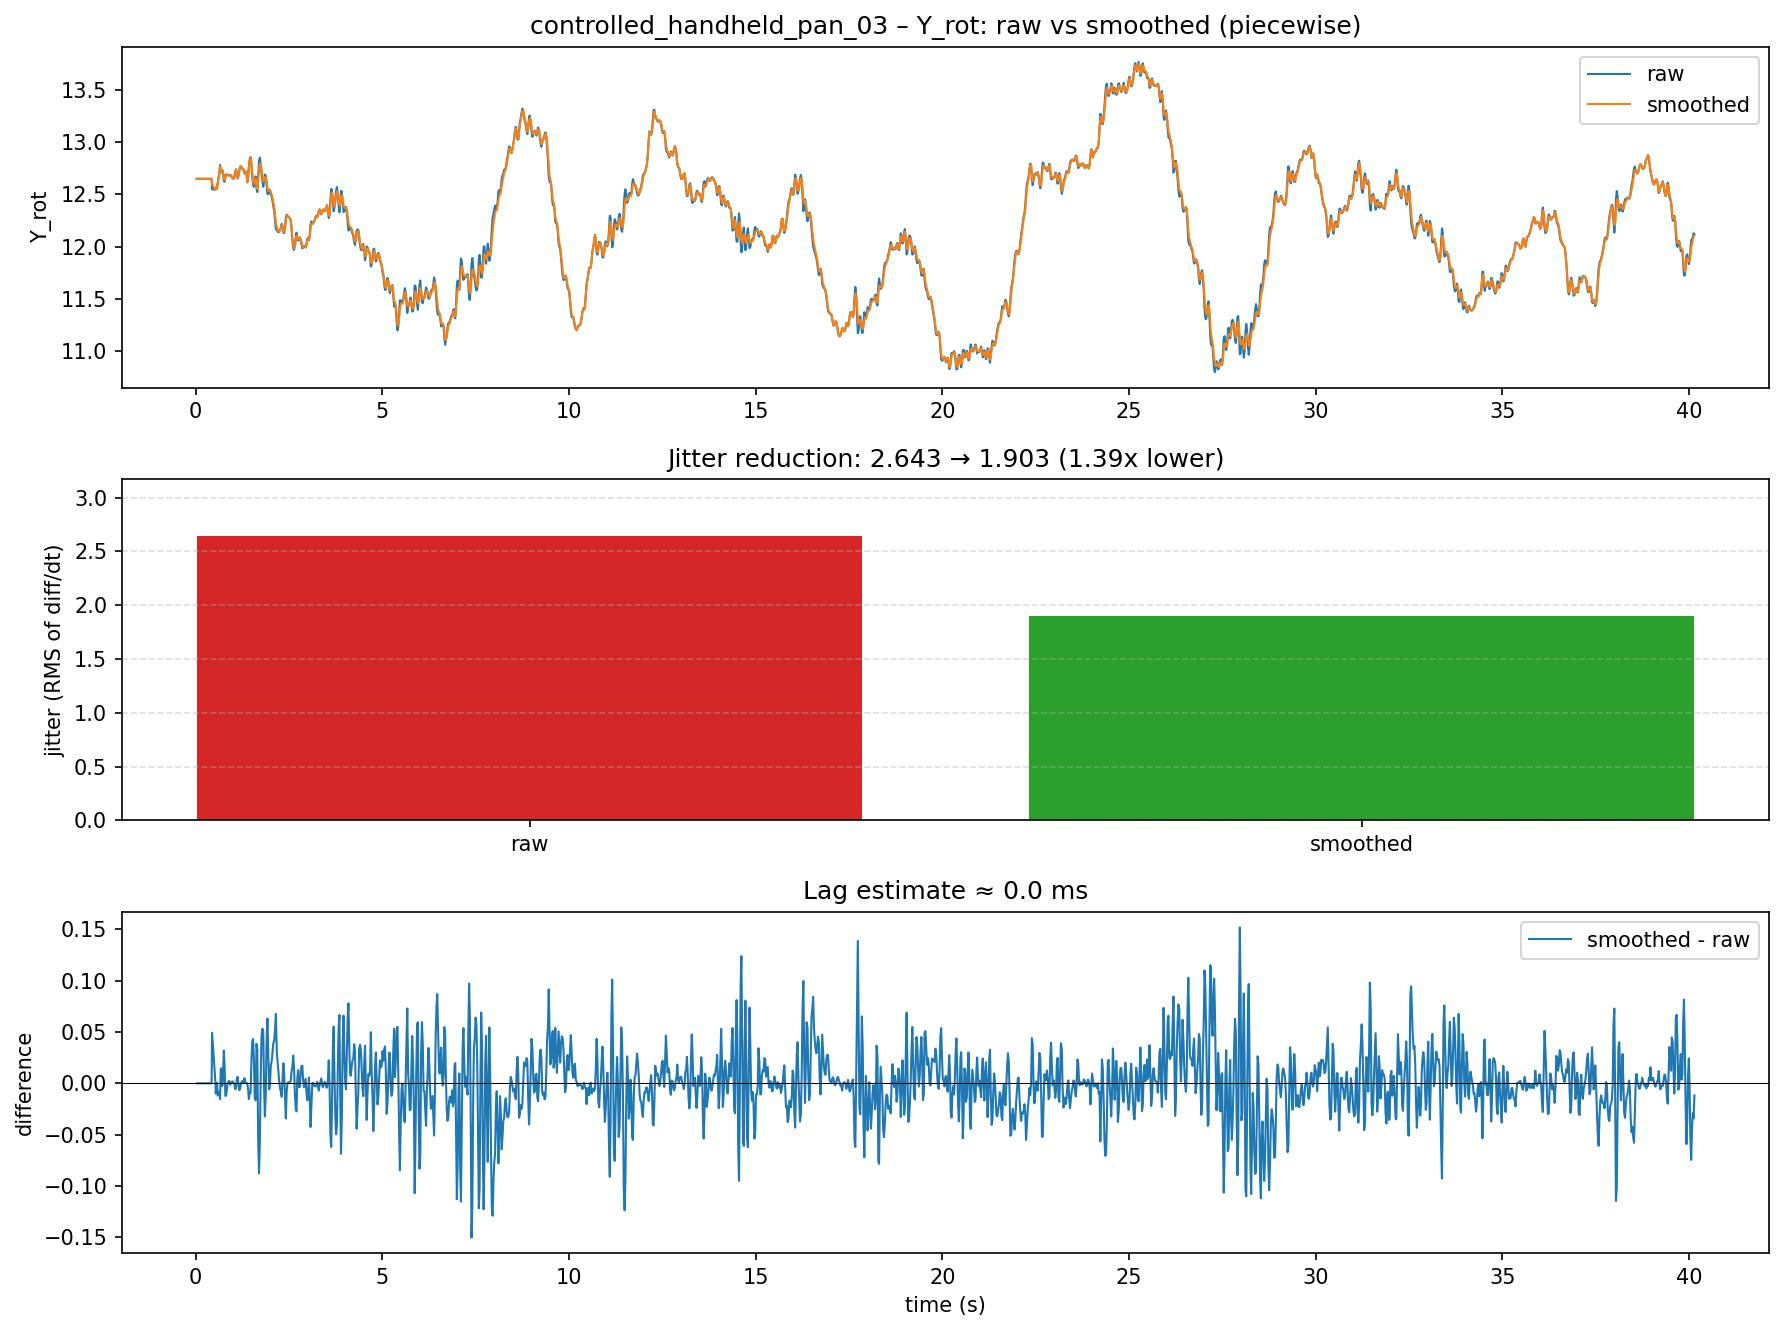
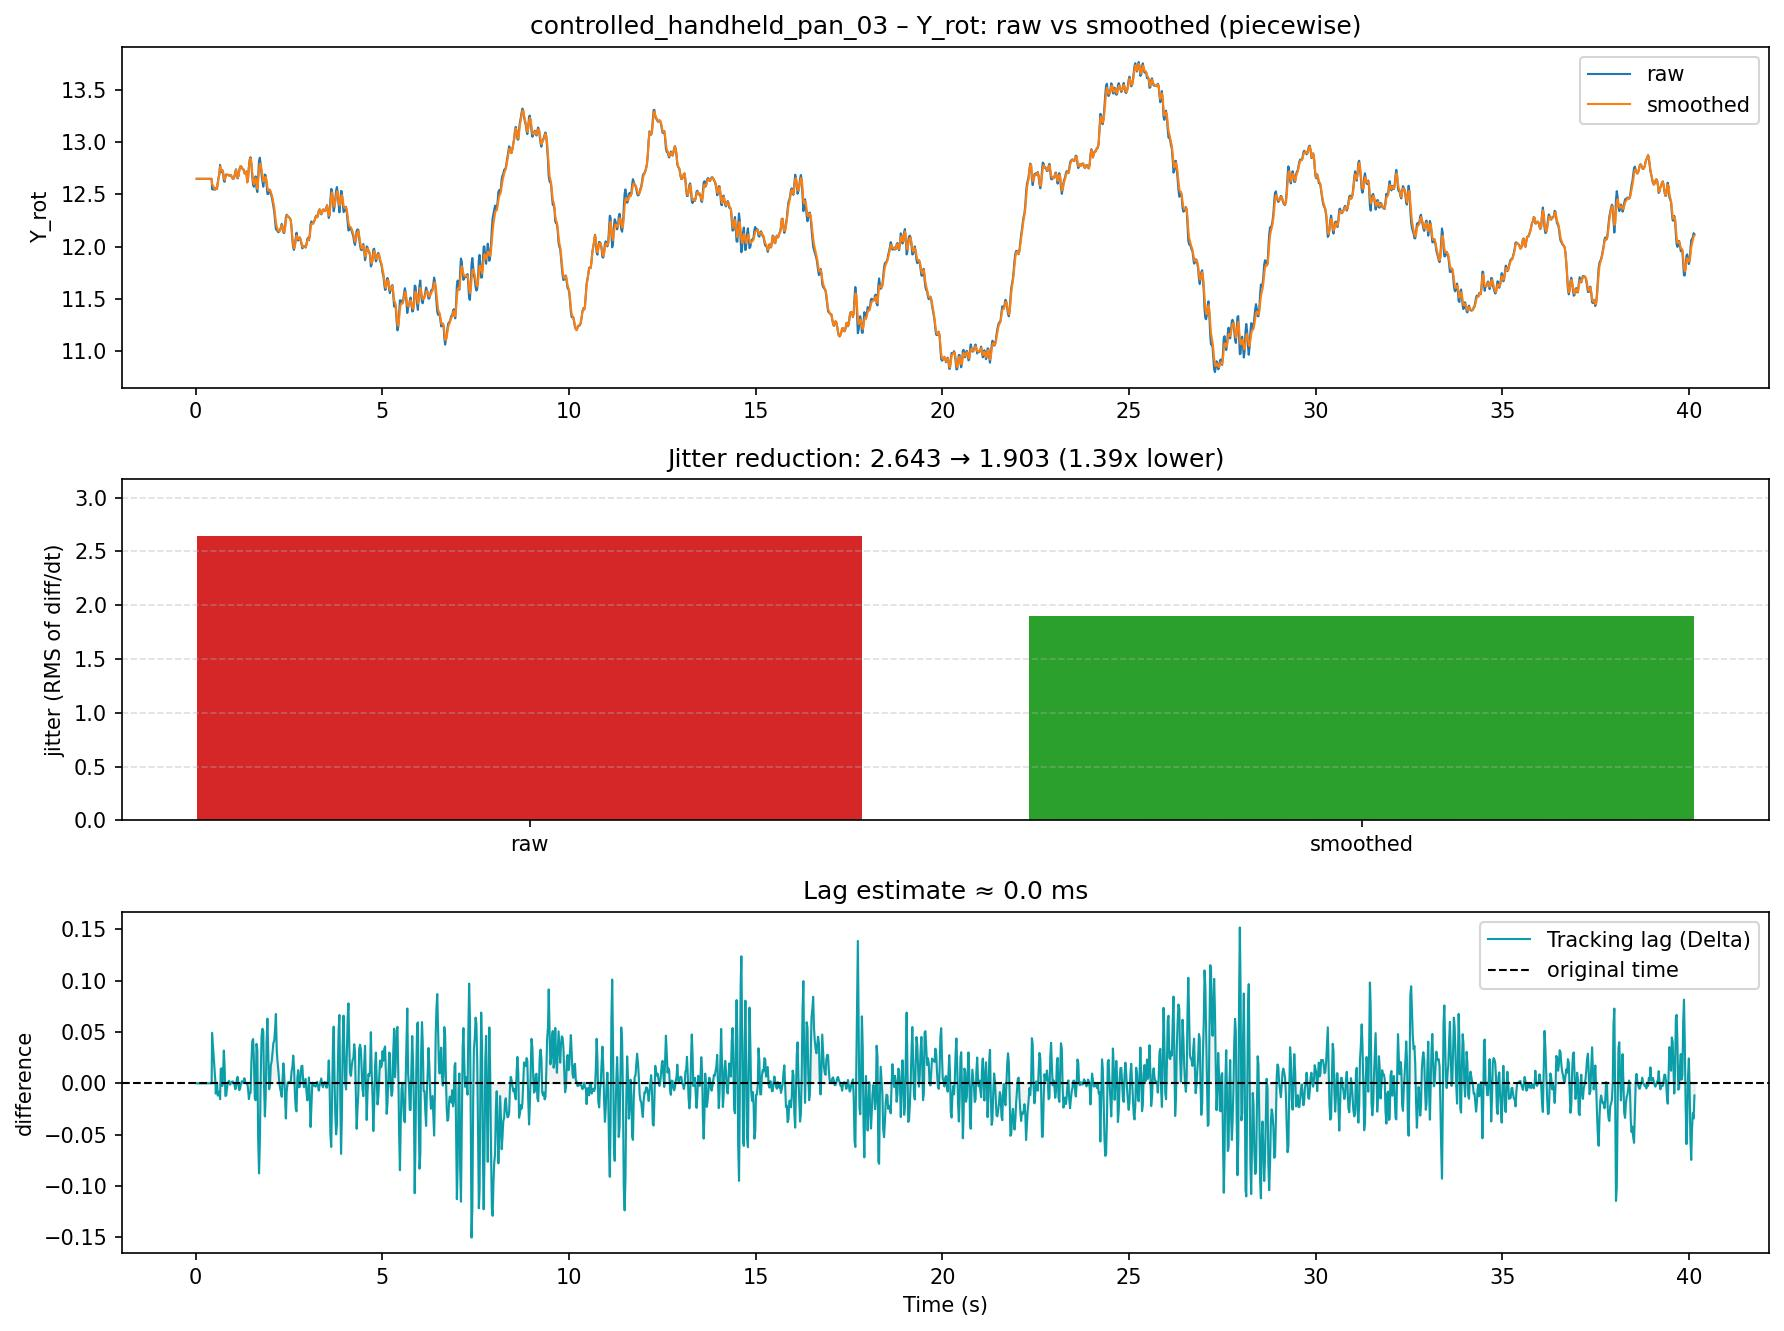
update the plots with the correct lag labeling logic

Changed region(s): [[0.1233, 0.7393, 0.9557, 0.9241], [0.8324, 0.6777, 0.9865, 0.7393], [0.4933, 0.9549, 0.5549, 0.9857]]

diff --git a/linear_smoothing_sim.py b/linear_smoothing_sim.py
@@ -283,11 +283,14 @@ def make_plots(
     # 3) Difference over time, with lag annotation
     ax3 = plt.subplot(3, 1, 3, sharex=ax1)
     diff = smooth - raw
-    ax3.plot(t, diff, label="smoothed - raw", linewidth=1)
-    ax3.axhline(0.0, color="black", linewidth=0.5)
-    ax3.set_xlabel("time (s)")
+    # Plot the delta line
+    ax3.plot(t, diff, label="Tracking lag (Delta)", color="#0b9ea8", linewidth=1)
+    # Plot the baseLine (original time)
+    ax3.axhline(0, label="original time", color="black", linestyle="--", linewidth=1)
+    ax3.set_xlabel("Time (s)")
     ax3.set_ylabel("difference")
     ax3.set_title(f"Lag estimate ≈ {lag_sec*1000:.1f} ms")
+    ax3.fill_between(t, 0, diff, color="gray", alpha=0.1)
     ax3.legend()
 
     plt.tight_layout()

diff --git a/sigmoid_smoothing_sim.py b/sigmoid_smoothing_sim.py
@@ -289,11 +289,14 @@ def make_plots(
     # 3) Difference over time, with lag annotation
     ax3 = plt.subplot(3, 1, 3, sharex=ax1)
     diff = smooth - raw
-    ax3.plot(t, diff, label="smoothed - raw", linewidth=1)
-    ax3.axhline(0.0, color="black", linewidth=0.5)
-    ax3.set_xlabel("time (s)")
+    # Plot the delta line
+    ax3.plot(t, diff, label="Tracking lag (Delta)", color="#0b9ea8", linewidth=1)
+    # Plot the baseLine (original time)
+    ax3.axhline(0, label="original time", color="black", linestyle="--", linewidth=1)
+    ax3.set_xlabel("Time (s)")
     ax3.set_ylabel("difference")
     ax3.set_title(f"Lag estimate ≈ {lag_sec*1000:.1f} ms")
+    ax3.fill_between(t, 0, diff, color="gray", alpha=0.1)
     ax3.legend()
 
     plt.tight_layout()

diff --git a/piecewise_smoothing_sim.py b/piecewise_smoothing_sim.py
@@ -195,11 +195,14 @@ def make_piecewise_plots(
     # 3) Difference over time
     ax3 = plt.subplot(3, 1, 3, sharex=ax1)
     diff = smooth - raw
-    ax3.plot(t, diff, label="smoothed - raw", linewidth=1)
-    ax3.axhline(0.0, color="black", linewidth=0.5)
-    ax3.set_xlabel("time (s)")
+    # Plot the delta line
+    ax3.plot(t, diff, label="Tracking lag (Delta)", color="#0b9ea8", linewidth=1)
+    # Plot the baseLine (original time)
+    ax3.axhline(0, label="original time", color="black", linestyle="--", linewidth=1)
+    ax3.set_xlabel("Time (s)")
     ax3.set_ylabel("difference")
     ax3.set_title(f"Lag estimate ≈ {lag_sec*1000:.1f} ms")
+    ax3.fill_between(t, 0, diff, color="gray", alpha=0.1)
     ax3.legend()
 
     plt.tight_layout()

diff --git a/README.md b/README.md
@@ -670,7 +670,7 @@ Output example:
 docker compose run --rm sigmoid\
    python sigmoid_smoothing_sim.py\
         --logs data/processed/tracking_logs.csv\
-        --derivatives data/derived/tracking_derivatives.csv\
+        --derived data/derived/tracking_derivatives.csv\
         --config data/config/sigmoid_sigma_ranges.json\
         --axis Y_rot\
         --label fast_pan_tripod_02
